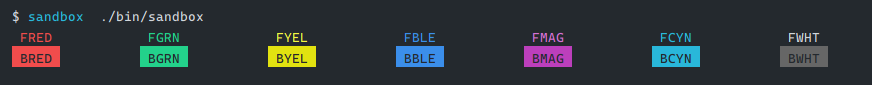
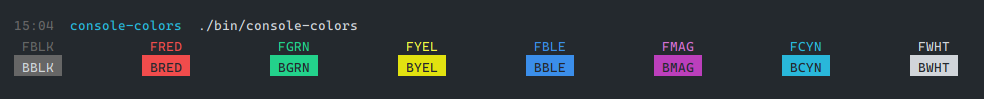
added black colors, fixed BWHT color

diff --git a/src/main.cpp b/src/main.cpp
@@ -2,7 +2,8 @@
 #include <iostream>
 
 int main() {
-  std::cout << colors::FRED << " FRED " << colors::RS << "\t\t"
+  std::cout << colors::FBLK << " FBLK " << colors::RS << "\t\t"
+            << colors::FRED << " FRED " << colors::RS << "\t\t"
             << colors::FGRN << " FGRN " << colors::RS << "\t\t"
             << colors::FYEL << " FYEL " << colors::RS << "\t\t"
             << colors::FBLE << " FBLE " << colors::RS << "\t\t"
@@ -10,6 +11,7 @@ int main() {
             << colors::FCYN << " FCYN " << colors::RS << "\t\t"
             << colors::FWHT << " FWHT " << colors::RS << "\n"
 
+            << colors::BBLK << " BBLK " << colors::RS << "\t\t"
             << colors::BRED << " BRED " << colors::RS << "\t\t"
             << colors::BGRN << " BGRN " << colors::RS << "\t\t"
             << colors::BYEL << " BYEL " << colors::RS << "\t\t"

diff --git a/src/libs/colors/colors.cpp b/src/libs/colors/colors.cpp
@@ -1,6 +1,7 @@
 #include "./colors.hpp"
 
 const char *colors::RS = "\033[0m";
+const char *colors::FBLK = "\x1B[90m";
 const char *colors::FRED = "\x1B[91m";
 const char *colors::FGRN = "\x1B[92m";
 const char *colors::FYEL = "\x1B[93m";
@@ -8,10 +9,12 @@ const char *colors::FBLE = "\x1B[94m";
 const char *colors::FMAG = "\x1B[95m";
 const char *colors::FCYN = "\x1B[96m";
 const char *colors::FWHT = "\x1B[97m";
+
+const char *colors::BBLK = "\033[47;97m";
 const char *colors::BRED = "\033[41;30m";
 const char *colors::BGRN = "\033[42;30m";
 const char *colors::BYEL = "\033[43;30m";
 const char *colors::BBLE = "\033[44;30m";
 const char *colors::BMAG = "\033[45;30m";
 const char *colors::BCYN = "\033[46;30m";
-const char *colors::BWHT = "\033[47;30m";
+const char *colors::BWHT = "\033[7m";

diff --git a/src/libs/colors/colors.hpp b/src/libs/colors/colors.hpp
@@ -1,8 +1,8 @@
-#ifndef __COLORS_HPP__
-#define __COLORS_HPP__
+#pragma once
 
 namespace colors {
 extern const char *RS;
+extern const char *FBLK;
 extern const char *FRED;
 extern const char *FGRN;
 extern const char *FYEL;
@@ -10,6 +10,8 @@ extern const char *FBLE;
 extern const char *FMAG;
 extern const char *FCYN;
 extern const char *FWHT;
+
+extern const char *BBLK;
 extern const char *BRED;
 extern const char *BGRN;
 extern const char *BYEL;
@@ -18,5 +20,3 @@ extern const char *BMAG;
 extern const char *BCYN;
 extern const char *BWHT;
 }; // namespace colors
-
-#endif
